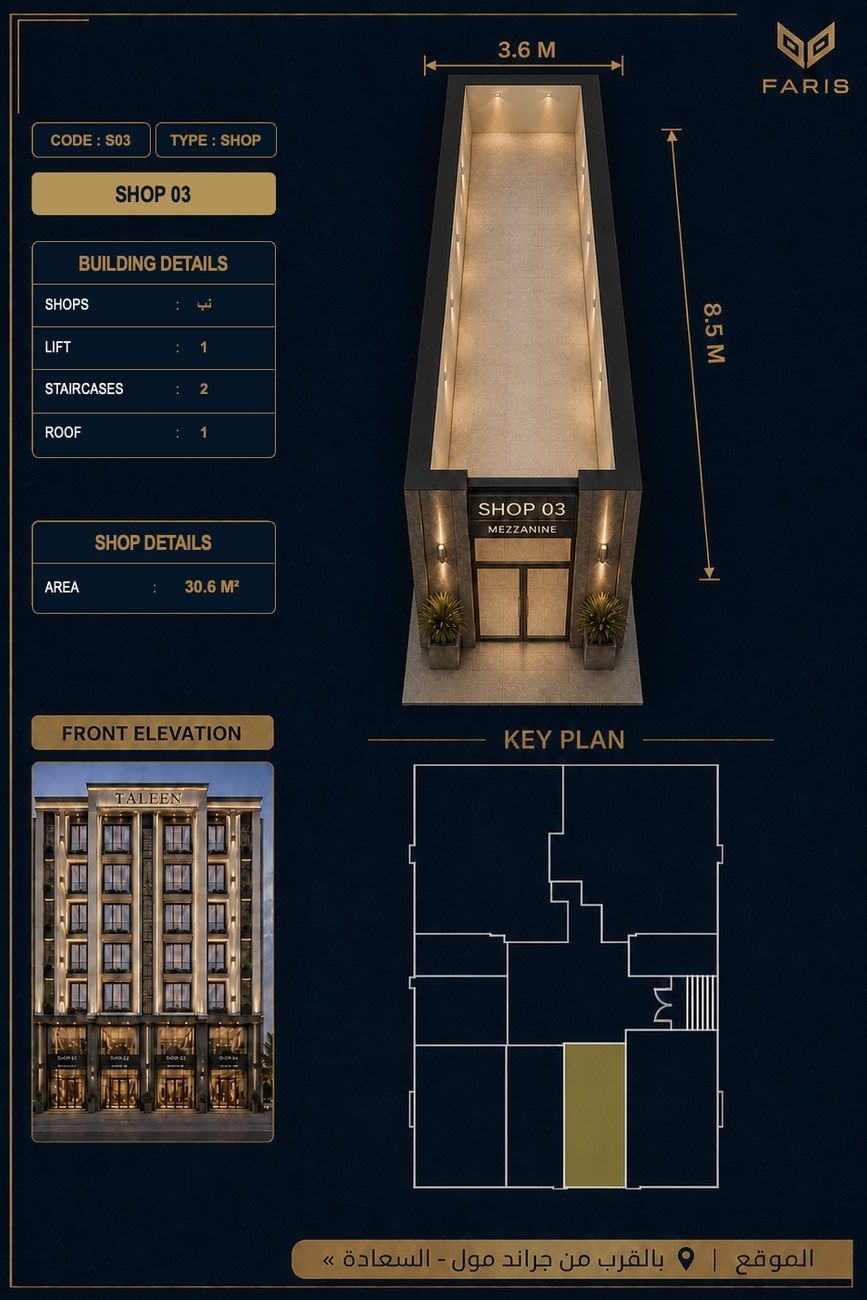
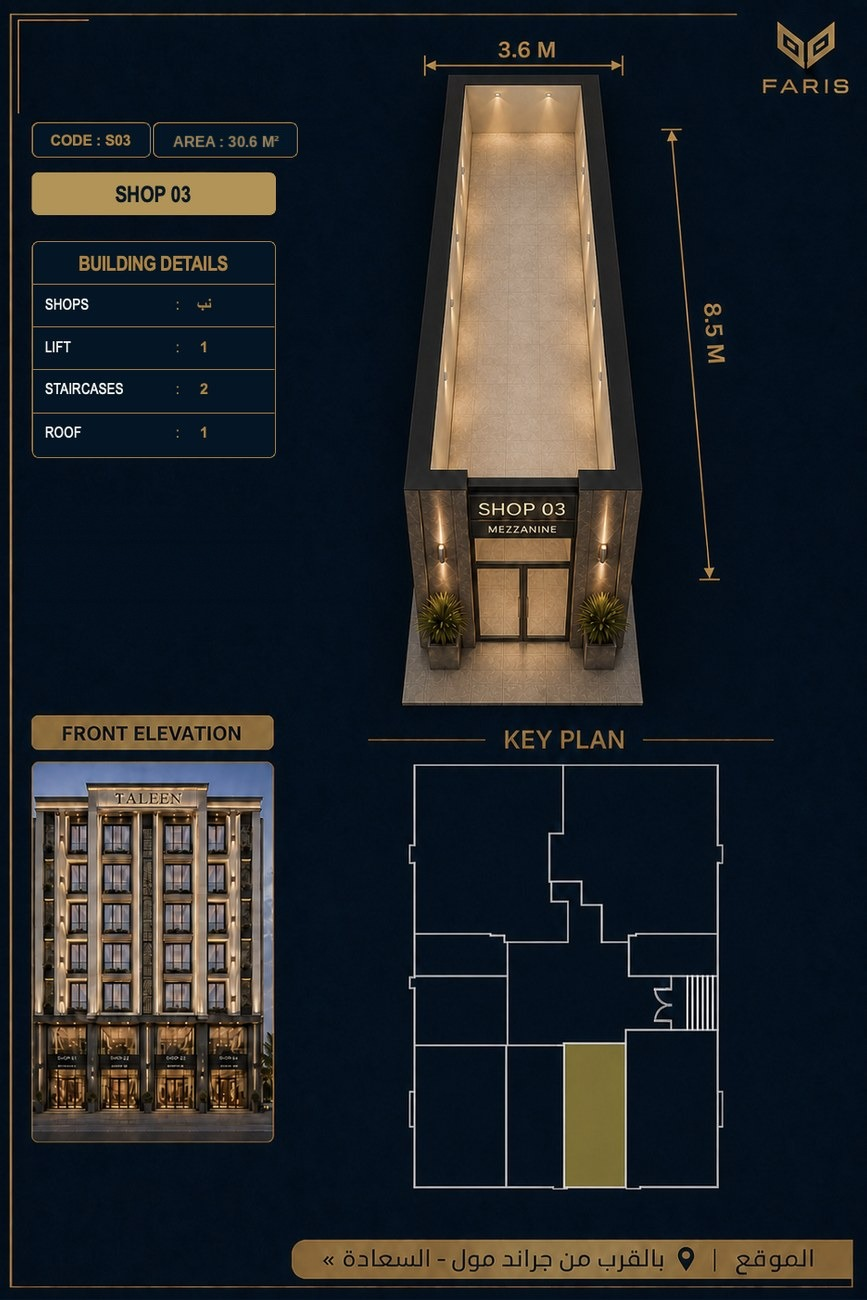
Shop-card AREA pills, 14-scene storyboard, and a drag-killing selection bug
Shop cards (s01..s04.jpg): the TYPE : SHOP pill is replaced in place by an
AREA pill carrying each shop's own area (S01 45.9, S02 30.6, S03 30.6,
S04 93.0 M2). Rather than imitating the pill border it is cloned from the
CODE pill's own pixels -- corner caps plus a stretched clean slice -- so
border, radius, height and stroke are identical by construction; the label
is set at the CODE text's measured 10px cap height in its sampled ink. The
SHOP DETAILS table, now redundant, is erased to reconstructed background.

Storyboard: the seven chapters are replaced by the fourteen supplied scenes,
verbatim, two per spread in RTL reading order, before every section. Each
scene: number, Arabic title, Arabic line (dir=rtl), English line (dir=ltr)
-- directions never mixed in one element. Structure, counters and chips are
unchanged (still 50 pages).

Bug found while verifying: dragging across a story page selected its text,
and the next press on that selection started a native drag whose
pointercancel killed the page turn mid-gesture. The viewer now disables
selection (user-select:none on the stage) and blocks dragstart.

Verified at 390x844 and 360x800: no horizontal overflow, book fully on
screen, controls visible, scenes rendering; full drag/touch/order suites
pass, drag suite three times consecutively.

Claude-Session: https://claude.ai/code/session_01JZ6oNYGnKfrNhumKdfTr91

Changed region(s): [[0.0934, 0.4, 0.2803, 0.4615], [0.1557, 0.0923, 0.3426, 0.1231], [0.0311, 0.4, 0.0934, 0.4615]]

diff --git a/book.js b/book.js
@@ -29,49 +29,26 @@ const LOGO = 'logo.svg';
 const PHONE = '+968 9566 8000';
 const TAGLINE = 'INVEST IN THE BEST';         // sits under the mark wherever it appears
 
-/* ---------------- the story ----------------
-   Seven chapters, one full spread each, threaded between the sections so the
-   catalogue reads as a single narrative: arrival in Salalah, life at street
-   level, the hotel-suite floors, the khareef, the frankincense heritage, the
-   summit, and finally the investment case that hands over to the price list.
-   Right page = chapter text. Left page = pull-quote over a watermark of the
-   mark, grounded by three facts taken from the catalogue itself. */
-const STORY = [
-  { kicker:'الفصل الأول',  title:'حيث يبدأ المطر حكايته',
-    body:'في صلالة، حيث يعانق ضباب الخريف جبال ظفار ويهبّ نسيم البحر محمّلًا بعبق اللبان، يرتفع تالين — عنوان جديد للسكن الراقي في قلب المدينة، على خطوات من جراند مول والسعادة.',
-    en:'WHERE THE MONSOON BEGINS ITS TALE',
-    quote:'مبنى واحد… يختصر صلالة كلها',
-    stats:[['2 دقيقة','إلى جراند مول صلالة'],['13 دقيقة','إلى شاطئ الحافة'],['15 دقيقة','إلى مطار صلالة']] },
-  { kicker:'الفصل الثاني', title:'الحياة عند مستوى الشارع',
-    body:'أربعة محلات بواجهات مضيئة تستقبل المدينة صباحًا ومساءً؛ مقهى يفوح منه الهيل، ومعرض يلمع زجاجه — حياة كاملة تنبض تحت بيتك، وميزانين يعلوها بهدوء.',
-    en:'LIFE AT STREET LEVEL',
-    quote:'واجهة تليق باسمك التجاري',
-    stats:[['4','محلات بواجهات زجاجية'],['93 م²','أكبر مساحة تجارية'],['2 دقيقة','من جراند مول']] },
-  { kicker:'الفصل الثالث', title:'أجنحة بروح الفندق',
-    body:'شُقق صُمّمت كأجنحة فندقية: تشطيبات راقية، أثاث فاخر منتقى بعناية، وإضاءة دافئة تشبه ترحيب الفنادق الكبرى — لتسكن كما لو كنت ضيفًا دائمًا لا يغادر.',
-    en:'SUITES WITH A HOTEL SOUL',
-    quote:'كل تفصيلة… على ذوق ضيف لا يرضى إلا بالأفضل',
-    stats:[['91 م²','أكبر شقة مزدوجة'],['2','غرفتا نوم وصالة رحبة'],['34 م²','استوديوهات أنيقة']] },
-  { kicker:'الفصل الرابع', title:'الخريف على عتبة بيتك',
-    body:'من نوافذ الدور الثاني يتحوّل الصيف إلى لوحة: سحب تنساب على الجبال، رذاذ ناعم على الزجاج، وخضرة لا تراها إلا في صلالة. موسم الخريف بأكمله… إطلالة يومية.',
-    en:'THE KHAREEF AT YOUR WINDOW',
-    quote:'أن تشرب قهوتك والضباب يمرّ من جانبك',
-    stats:[['4 أشهر','من الضباب والخضرة'],['25°','صيف صلالة المعتدل'],['بلا ثمن','الإطلالة، كل صباح']] },
-  { kicker:'الفصل الخامس', title:'عبق اللبان',
-    body:'على هذه الأرض نبتت أشجار اللبان التي عرفها العالم قبل آلاف السنين. تالين يسكن المكان نفسه: أصالة ظفارية في العمارة، وكرم عُماني في التفاصيل.',
-    en:'THE SCENT OF FRANKINCENSE',
-    quote:'فخامة تُروى… لا تُشترى',
-    stats:[['أرض اللبان','تراث عالمي في ظفار'],['الجبال','خلف نافذتك'],['البحر','على مرمى نظرك']] },
-  { kicker:'الفصل السادس', title:'أقرب إلى السماء',
-    body:'في الدور الرابع يخفت صوت المدينة ويتّسع الأفق: الجبال من جهة، والبحر من أخرى، وهدوء لا يقطعه إلا أذان المغرب البعيد.',
-    en:'CLOSER TO THE SKY',
-    quote:'القمة ليست مكانًا… إنها إحساس',
-    stats:[['الرابع','الدور الأعلى سكنًا'],['روف','يتوّج المبنى'],['أفق','مفتوح بلا حدود']] },
-  { kicker:'الفصل الأخير', title:'استثمر في الأفضل',
-    body:'صلالة تنمو، وضيوف الخريف يعودون كل عام بأعداد أكبر. وحدة في تالين ليست مسكنًا فحسب — إنها أصل يعمل لصالحك: موقع لا يتكرر، وطابع فندقي، وطلب لا يهدأ.',
-    en:'INVEST IN THE BEST',
-    quote:'الأفضل… يبدأ من العنوان',
-    stats:[['40','وحدة سكنية'],['4','محلات تجارية'],['24 شهرًا','خطط سداد مريحة']] },
+/* ---------------- the storyboard ----------------
+   Fourteen scenes, verbatim from the brief, two per spread — right page then
+   left, in RTL reading order — threaded before every section. A spread is 2
+   pages, so the even-count rule that keeps every section opening on a
+   right-hand page still holds. A section's `story` is its spread index. */
+const SCENES = [
+  { n:'01', t:'البداية',          ar:'كل مشروع ناجح… يبدأ من عنوانٍ مميز.',            en:'Every Success Begins with the Right Address.' },
+  { n:'02', t:'الموقع',           ar:'في قلب صلالة… تبدأ فرص الأعمال بالنمو.',          en:'At the Heart of Salalah, Opportunities Grow.' },
+  { n:'03', t:'الرؤية',           ar:'نصنع بيئة تجارية تجمع بين الأناقة والنجاح.',      en:'Designed for Business. Built for Success.' },
+  { n:'04', t:'الاستثمار',        ar:'استثمار اليوم… هو نجاح الغد.',                    en:'Invest Today. Thrive Tomorrow.' },
+  { n:'05', t:'الحركة',           ar:'حيث يلتقي الموقع الاستراتيجي بالحركة اليومية.',   en:'Where Location Meets Opportunity.' },
+  { n:'06', t:'القيمة',           ar:'مساحات صُممت لتمنح أعمالك حضورًا أقوى.',          en:'Spaces Designed to Elevate Your Business.' },
+  { n:'07', t:'العملاء',          ar:'كل خطوة داخل المبنى… تقرّبك من عميل جديد.',       en:'Every Step Brings You Closer to Your Customers.' },
+  { n:'08', t:'الجودة',           ar:'تفاصيل مدروسة… وتجربة استثنائية.',                en:'Crafted with Purpose.' },
+  { n:'09', t:'صلالة',            ar:'حيث تبدأ حكاية الخريف… وتزدهر الأعمال.',          en:'Where the Monsoon Inspires Business.' },
+  { n:'10', t:'الثقة',            ar:'عنوان يليق بطموحك… وثقة تستحقها.',                en:'A Place Worth Your Ambition.' },
+  { n:'11', t:'المستقبل',         ar:'المستقبل يبدأ من المكان الصحيح.',                 en:'The Future Starts Here.' },
+  { n:'12', t:'النجاح',           ar:'ليس مجرد مبنى… بل وجهة للأعمال.',                 en:'More Than a Building. A Business Destination.' },
+  { n:'13', t:'الفرصة',           ar:'فرصتك اليوم… في موقع يصنع الفرق.',                en:'Your Opportunity Starts Here.' },
+  { n:'14', t:'النهاية (الخاتمة)', ar:'ابدأ مشروعك… واترك عنوانك يتحدث عن نجاحك.',      en:'Build Your Business. Define Your Success.' },
 ];
 // a number means pNN.jpg (images sit next to index.html); a string is a filename
 const srcOf = v => typeof v === 'number' ? `p${String(v).padStart(2,'0')}.jpg` : v;
@@ -114,7 +91,7 @@ faces.push({type:'cover'});                   // face 0
 faces.push({type:'logo'});                    // faces the poster: the brand mark
 PAGES.forEach((v,i)=> faces.push(
   typeof v === 'object'
-    ? {type:'story', ch:STORY[v.story], side:v.side, page:i+1}
+    ? {type:'story', sc:SCENES[2*v.story + (v.side==='right' ? 0 : 1)], side:v.side, page:i+1}
     : {type:'img', src:srcOf(v), page:i+1}));
 faces.push({type:'logo'});                    // faces the price list: the brand mark
 faces.push({type:'closing'});                 // back cover
@@ -185,28 +162,18 @@ function faceHTML(f){
         <div class="year">TALEEN</div>
       </div></div>`;
   if (f.type === 'story'){
-    const c = f.ch;
-    if (f.side === 'right')
-      return `<div class="leather story-page">
-        <div class="css-leather"></div>
-        <div class="frame"></div>
-        <div class="story-copy">
-          <div class="orn">— ◆ —</div>
-          <div class="kicker">${c.kicker}</div>
-          <h2>${c.title}</h2>
-          <p>${c.body}</p>
-          <div class="rule"></div>
-          <div class="en">${c.en}</div>
-        </div></div>`;
+    const c = f.sc;
     return `<div class="leather story-page">
       <div class="css-leather"></div>
-      <img class="wm" src="${LOGO}" alt="" onerror="this.remove()">
+      ${f.side === 'left' ? `<img class="wm" src="${LOGO}" alt="" onerror="this.remove()">` : ''}
       <div class="frame"></div>
       <div class="story-copy">
-        <blockquote>«${c.quote}»</blockquote>
-        <div class="stats">${c.stats.map(([v,l]) =>
-          `<div class="stat"><div class="v">${v}</div><div class="l">${l}</div></div>`).join('')}
-        </div>
+        <div class="orn">— ◆ —</div>
+        <div class="scene-no">${c.n}</div>
+        <div class="kicker" dir="rtl">${c.t}</div>
+        <h2 dir="rtl">${c.ar}</h2>
+        <div class="rule"></div>
+        <div class="en" dir="ltr">${c.en}</div>
       </div></div>`;
   }
   if (f.type === 'logo')
@@ -498,6 +465,8 @@ function onUp(e){
 }
 stage.addEventListener('pointerup', onUp,{passive:true});
 stage.addEventListener('pointercancel', onUp,{passive:true});
+/* native image/selection drags fire pointercancel mid-gesture and kill the turn */
+stage.addEventListener('dragstart', e=>e.preventDefault());
 
 /* Tap a page half to turn it. On touch the turn waits out the double-tap
    window, otherwise a double-tap-to-zoom would turn two pages on its way. */

diff --git a/index.html b/index.html
@@ -48,7 +48,11 @@ body::before{content:"";position:fixed;inset:0;pointer-events:none;opacity:.5;
    stage at full height and pushes the controls off any short screen. */
 .stage{flex:1;min-height:0;min-width:0;overflow:hidden;
   perspective:2600px;position:relative;z-index:2;
-  touch-action:none}   /* pages are dragged by pointer; no native scroll/zoom */
+  touch-action:none;   /* pages are dragged by pointer; no native scroll/zoom */
+  /* No selection inside the viewer: a drag over page text creates a selection,
+     and the next press on it starts a native drag whose pointercancel kills
+     the page turn mid-gesture. */
+  user-select:none;-webkit-user-select:none}
 /* Absolutely centred rather than grid-centred: the book is wider than a phone
    before it is scaled down, and grid alignment clamps an overflowing item to
    the start edge — which in RTL is the right — throwing it off-screen left. */
@@ -141,23 +145,17 @@ body::before{content:"";position:fixed;inset:0;pointer-events:none;opacity:.5;
    on the Arabic — spaced-out Arabic visually severs the joined letters. */
 .story-page .story-copy{position:relative;z-index:2;text-align:center;padding:0 46px;
   text-shadow:0 2px 16px rgba(0,0,0,.5)}
-.story-page .orn{color:rgba(232,201,138,.8);font-size:13px;margin-bottom:16px}
-.story-page .kicker{font-size:13px;font-weight:700;color:var(--gold2);margin-bottom:10px}
-.story-page h2{font-weight:800;font-size:27px;color:#f1e7d2;margin:0 0 18px;line-height:1.5}
-.story-page p{font-size:14.5px;line-height:2.05;color:#cfd8e6;font-weight:500;margin:0 0 22px}
-.story-copy .rule{width:64px;height:1px;margin:0 auto 18px;
+.story-page .orn{color:rgba(232,201,138,.8);font-size:13px;margin-bottom:18px}
+.story-page .scene-no{font-family:Marcellus,serif;font-size:15px;letter-spacing:.4em;
+  text-indent:.4em;color:rgba(232,201,138,.75);margin-bottom:14px}
+.story-page .kicker{font-size:15px;font-weight:700;color:var(--gold2);margin-bottom:18px}
+.story-page h2{font-weight:800;font-size:24px;color:#f1e7d2;margin:0 0 22px;line-height:1.85}
+.story-copy .rule{width:64px;height:1px;margin:0 auto 20px;
   background:linear-gradient(90deg,transparent,var(--gold2),transparent)}
-.story-page .en{font-family:Marcellus,serif;font-size:10.5px;letter-spacing:.3em;
-  text-indent:.3em;color:rgba(232,201,138,.85);white-space:nowrap}
+.story-page .en{font-family:Marcellus,serif;font-size:11px;letter-spacing:.24em;
+  color:rgba(232,201,138,.85);line-height:2.1}
 .story-page .wm{position:absolute;width:82%;top:50%;left:50%;transform:translate(-50%,-54%);
   opacity:.055;object-fit:contain;border-radius:0}
-.story-page blockquote{font-size:21.5px;font-weight:800;color:var(--gold2);
-  line-height:1.95;margin:0 0 34px}
-.story-page .stats{display:grid;gap:0}
-.story-page .stat{padding:13px 0}
-.story-page .stat + .stat{border-top:1px solid rgba(232,201,138,.18)}
-.story-page .stat .v{font-size:19px;font-weight:800;color:#f1e7d2}
-.story-page .stat .l{font-size:12px;color:#9fb0c8;margin-top:3px}
 .logo-page .fallback{display:none;text-align:center}
 .logo-page .brandmark.nomark .fallback{display:block}
 .logo-page .fallback h1{font-family:Marcellus,serif;font-weight:400;color:var(--gold2);
